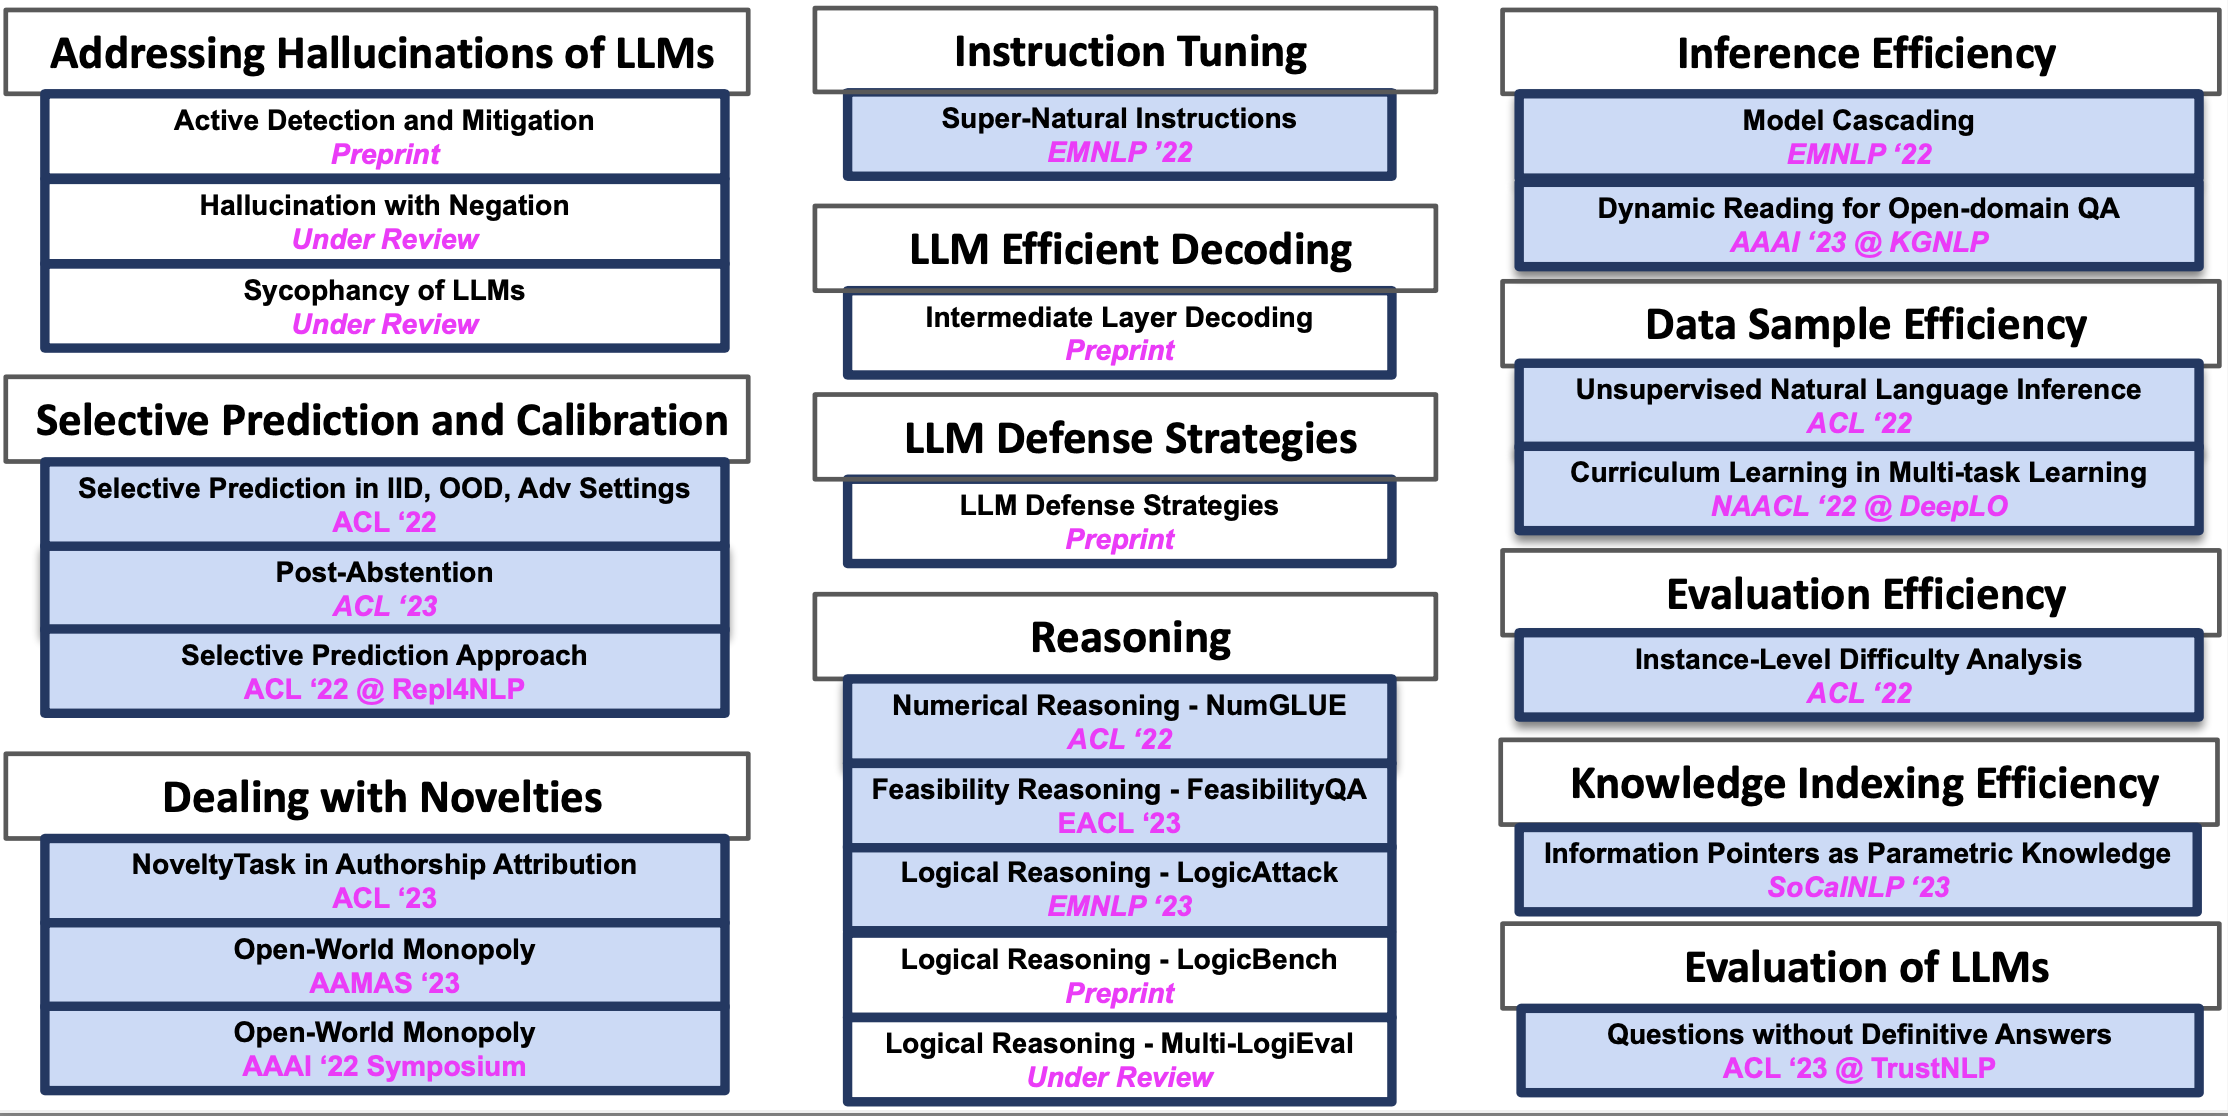
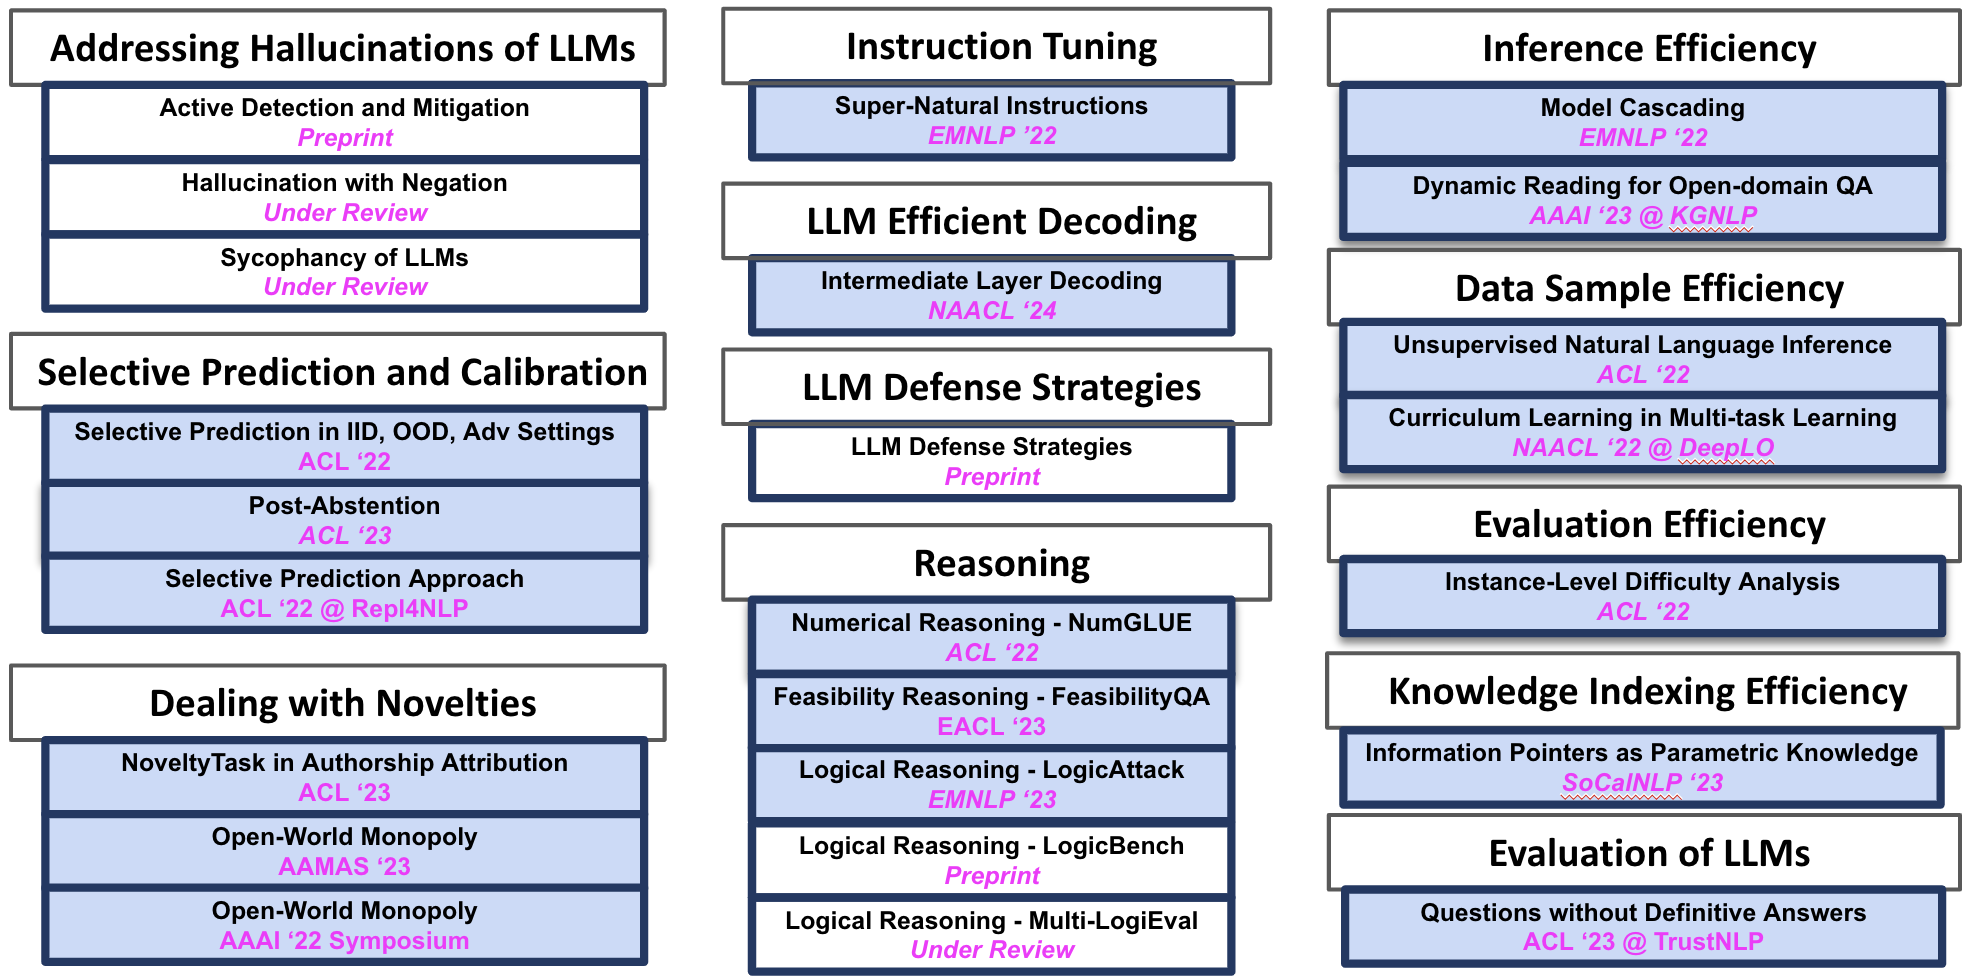
adding naacl publication

diff --git a/publications/index.html b/publications/index.html
@@ -163,6 +163,92 @@
     
       
         <span class="badge font-weight-bold danger-color-dark align-middle" style="width: 53px;">
+          NAACL
+        </span>
+      
+    
+      </div>
+  
+  <div class="col-sm-11 mt-2 mt-sm-0 p-0 pl-xs-0 pl-sm-4 pr-xs-0 pr-sm-2">
+    
+    <div id="verma2022learninguser" class="col p-0">
+      <h5 class="title mb-0">Accelerating LLM Inference by Enabling Intermediate Layer Decoding</h5>
+      <div class="author">
+        <nobr><em>Neeraj Varshney</em></nobr>,  <a target="_blank">Agneet Chatterjee</a>, <a target="_blank">Mihir Parmar</a>, and <a href="https://www.public.asu.edu/~cbaral/" target="_blank">Chitta Baral</a>
+          
+      </div>
+      <div>
+        <!-- <p class="periodical font-italic">
+          
+            Preprint
+        
+      </p> -->
+      <p  class="periodical font">
+      </div>
+    
+      <div class="col p-0">        
+          <a class="badge grey waves-effect font-weight-light mr-1" data-toggle="collapse" href="#decoding-abstract" role="button" aria-expanded="false" aria-controls="decoding-abstract">Abstract</a>        
+        
+          <a class="badge grey waves-effect font-weight-light mr-1" data-toggle="collapse" href="#decoding-bibtex" role="button" aria-expanded="false" aria-controls="decoding-bibtex">BibTeX</a>                
+          
+            <a class="badge grey waves-effect font-weight-light mr-1" href="https://2024.naacl.org/" target="_blank">Publisher</a>                  
+        
+          <a class="badge grey waves-effect font-weight-light mr-1" href="https://arxiv.org/abs/2310.18581" target="_blank">Paper</a>                
+      </div>          
+      
+      <div class="col mt-2 p-0">
+        <div id="decoding-abstract" class="collapse">
+          <div class="abstract card card-body font-weight-light mr-0 mr-sm-3 p-3">
+            Large Language Models (LLMs) have achieved remarkable performance across a wide variety of natural language tasks; however, their large size makes their inference slow and computationally expensive which poses a practical challenge for resource constrained real-world applications. Focusing on this problem, we propose to instruction tune LLMs in a way that enables intermediate layer decoding for efficiently generating text, but importantly without compromising the quality of the generation. Specifically, we instruction tune LLMs with additional explicit Losses from the InTermediate layErs (LITE) and show that it enables these layers to acquire 'good' generation ability without affecting the generation ability of the final layer. We perform 'dynamic confidence-based early exiting' at token level from the intermediate layers which improves the efficiency of inference while maintaining the generation quality. We conduct comprehensive experiments by instruction tuning LLaMA-2 models on the widely used Alpaca dataset and holistically evaluate on four different human-instruction test sets: Vicuna, WizardLM, Koala, and Self-Instruct. We show that 'dynamic early exiting' achieves consistent and considerable cost improvements (37.86% on average) while maintaining the generation quality of the responses. We further conduct a thorough analysis of the results over several important aspects, such as comparing the semantic similarity of the outputs and dissecting the efficiency improvements by comparing the number of tokens generated in the output. In summary, our work contributes to improving the efficiency of LLM inference while maintaining the generation quality, a crucial step en route to enabling their widespread adoption.
+          </div>
+        </div>
+      </div>
+            
+      <div class="col mt-2 p-0">
+        <div id="decoding-bibtex" class="collapse">
+          <div class="bibtex card card-body font-weight-light mr-0 mr-sm-3 p-3">
+            <pre>
+          @article{varshney2023accelerating,
+  title={Accelerating LLM Inference by Enabling Intermediate Layer Decoding},
+  author={Varshney, Neeraj and Chatterjee, Agneet and Parmar, Mihir and Baral, Chitta},
+  journal={arXiv preprint arXiv:2310.18581},
+  year={2023}
+}</pre>
+
+          </div>
+        </div>
+      </div> 
+      
+
+      
+      
+    </div>
+
+  </div>
+  
+</div>
+
+
+</li>
+
+</ol>
+    </div>
+    <div class="col-sm-1 align-self-start mt-2 p-0 pr-1">
+      <h3 class="bibliography-year">2024</h3>
+    </div>
+  </div>
+
+<!-- -------- -->
+
+<div class="row m-0 p-0" style="border-top: 1px solid #ddd;">
+    <div class="col-sm-11 p-0">
+      <ol class="bibliography">
+
+        <li><div class="row m-0 mt-3 p-0">
+      <div class="col-sm-1 p-0 abbr">
+    
+      
+        <span class="badge font-weight-bold danger-color-dark align-middle" style="width: 53px;">
           Preprint
         </span>
       
@@ -240,91 +326,6 @@
 
 <!-- -------- -->
 
-<div class="row m-0 p-0" style="border-top: 1px solid #ddd;">
-    <div class="col-sm-11 p-0">
-      <ol class="bibliography">
-
-        <li><div class="row m-0 mt-3 p-0">
-      <div class="col-sm-1 p-0 abbr">
-    
-      
-        <span class="badge font-weight-bold danger-color-dark align-middle" style="width: 53px;">
-          Preprint
-        </span>
-      
-    
-      </div>
-  
-  <div class="col-sm-11 mt-2 mt-sm-0 p-0 pl-xs-0 pl-sm-4 pr-xs-0 pr-sm-2">
-    
-    <div id="verma2022learninguser" class="col p-0">
-      <h5 class="title mb-0">Accelerating LLM Inference by Enabling Intermediate Layer Decoding</h5>
-      <div class="author">
-        <nobr><em>Neeraj Varshney</em></nobr>,  <a target="_blank">Agneet Chatterjee</a>, <a target="_blank">Mihir Parmar</a>, and <a href="https://www.public.asu.edu/~cbaral/" target="_blank">Chitta Baral</a>
-          
-      </div>
-      <div>
-        <!-- <p class="periodical font-italic">
-          
-            Preprint
-        
-      </p> -->
-      <p  class="periodical font">
-      </div>
-    
-      <div class="col p-0">        
-          <a class="badge grey waves-effect font-weight-light mr-1" data-toggle="collapse" href="#decoding-abstract" role="button" aria-expanded="false" aria-controls="decoding-abstract">Abstract</a>        
-        
-          <a class="badge grey waves-effect font-weight-light mr-1" data-toggle="collapse" href="#decoding-bibtex" role="button" aria-expanded="false" aria-controls="decoding-bibtex">BibTeX</a>                
-          
-            <!-- <a class="badge grey waves-effect font-weight-light mr-1" href="https://2023.aclweb.org/" target="_blank">Publisher</a>                   -->
-        
-          <a class="badge grey waves-effect font-weight-light mr-1" href="https://arxiv.org/abs/2310.18581" target="_blank">Paper</a>                
-      </div>          
-      
-      <div class="col mt-2 p-0">
-        <div id="decoding-abstract" class="collapse">
-          <div class="abstract card card-body font-weight-light mr-0 mr-sm-3 p-3">
-            Large Language Models (LLMs) have achieved remarkable performance across a wide variety of natural language tasks; however, their large size makes their inference slow and computationally expensive which poses a practical challenge for resource constrained real-world applications. Focusing on this problem, we propose to instruction tune LLMs in a way that enables intermediate layer decoding for efficiently generating text, but importantly without compromising the quality of the generation. Specifically, we instruction tune LLMs with additional explicit Losses from the InTermediate layErs (LITE) and show that it enables these layers to acquire 'good' generation ability without affecting the generation ability of the final layer. We perform 'dynamic confidence-based early exiting' at token level from the intermediate layers which improves the efficiency of inference while maintaining the generation quality. We conduct comprehensive experiments by instruction tuning LLaMA-2 models on the widely used Alpaca dataset and holistically evaluate on four different human-instruction test sets: Vicuna, WizardLM, Koala, and Self-Instruct. We show that 'dynamic early exiting' achieves consistent and considerable cost improvements (37.86% on average) while maintaining the generation quality of the responses. We further conduct a thorough analysis of the results over several important aspects, such as comparing the semantic similarity of the outputs and dissecting the efficiency improvements by comparing the number of tokens generated in the output. In summary, our work contributes to improving the efficiency of LLM inference while maintaining the generation quality, a crucial step en route to enabling their widespread adoption.
-          </div>
-        </div>
-      </div>
-            
-      <div class="col mt-2 p-0">
-        <div id="decoding-bibtex" class="collapse">
-          <div class="bibtex card card-body font-weight-light mr-0 mr-sm-3 p-3">
-            <pre>
-          @article{varshney2023accelerating,
-  title={Accelerating LLM Inference by Enabling Intermediate Layer Decoding},
-  author={Varshney, Neeraj and Chatterjee, Agneet and Parmar, Mihir and Baral, Chitta},
-  journal={arXiv preprint arXiv:2310.18581},
-  year={2023}
-}</pre>
-
-          </div>
-        </div>
-      </div> 
-      
-
-      
-      
-    </div>
-
-  </div>
-  
-</div>
-
-
-</li>
-
-</ol>
-    </div>
-    <div class="col-sm-1 align-self-start mt-2 p-0 pr-1">
-      <h3 class="bibliography-year">2023</h3>
-    </div>
-  </div>
-
-<!-- -------- -->
 
 <div class="row m-0 p-0" style="border-top: 1px solid #ddd;">
     <div class="col-sm-11 p-0">

diff --git a/index.html b/index.html
@@ -201,6 +201,18 @@
   <div class="row p-0">      
       <div class="col-sm-2 p-0">
         <span class="badge danger-color-dark font-weight-bold text-uppercase align-middle date ml-3">
+         Mar 14, 2024
+        </span>
+      </div>
+      <div class="col-sm-10 mt-2 mt-sm-0 ml-3 ml-md-3 p-0 font-weight-light text">
+        <p>My work on accelerating Large Language Models Inference (<a href="https://arxiv.org/abs/2310.18581" target="_blank"><b>Accelerating LLaMA Inference by Enabling Intermediate Layer Decoding via Instruction Tuning with LITE</a>) has been accepted to appear at NAACL 2024</b>          
+        </p>
+      </div>
+    </div>
+
+  <div class="row p-0">      
+      <div class="col-sm-2 p-0">
+        <span class="badge danger-color-dark font-weight-bold text-uppercase align-middle date ml-3">
          Feb 21, 2024
         </span>
       </div>
@@ -226,17 +238,6 @@
 
   
 
-    <div class="row p-0">      
-      <div class="col-sm-2 p-0">
-        <span class="badge danger-color-dark font-weight-bold text-uppercase align-middle date ml-3">
-         Oct 28, 2023
-        </span>
-      </div>
-      <div class="col-sm-10 mt-2 mt-sm-0 ml-3 ml-md-3 p-0 font-weight-light text">
-        <p>My work on accelerating Large Language Models Inference (<a href="https://arxiv.org/abs/2310.18581" target="_blank"><b>Accelerating LLaMA Inference by Enabling Intermediate Layer Decoding via Instruction Tuning with LITE</a>) is available on arXiv.</b>          
-        </p>
-      </div>
-    </div>
     
 
     <div class="row p-0">      

diff --git a/cv/index.html b/cv/index.html
@@ -262,7 +262,7 @@
 
 								
 							<div class="col-xs-10 cl-sm-10 col-md mt-2 mt-md-0">								
-								<h6 class="title font-weight ml-1 ml-md-4">2022 (1 Workshop)
+								<h6 class="title font-weight ml-1 ml-md-4">2024 (1 Conference) </br> 2022 (1 Workshop)
 								</h6>																	
 							</div>
 							
